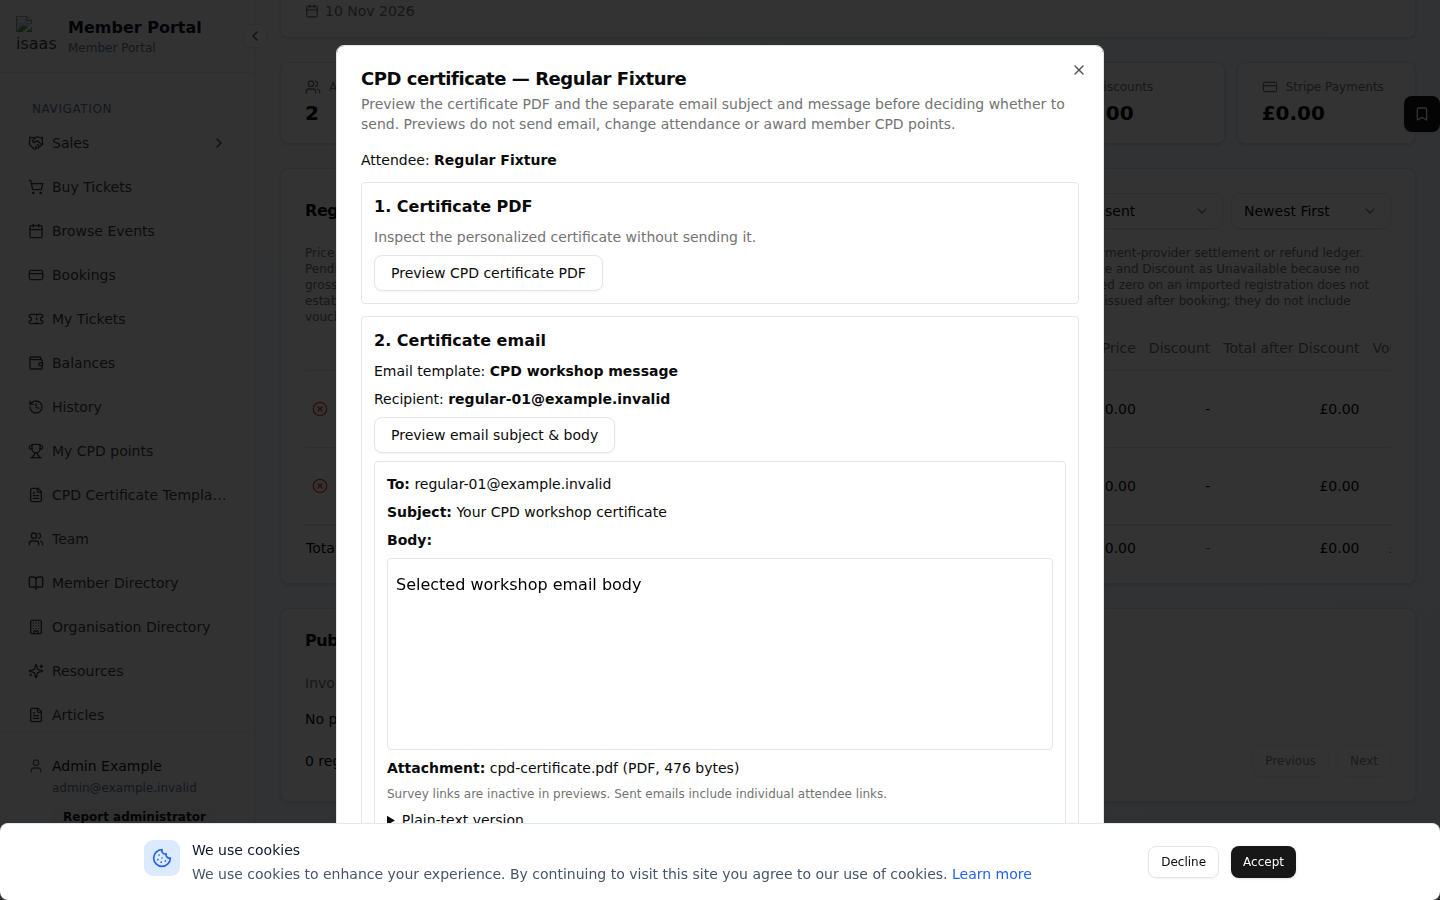
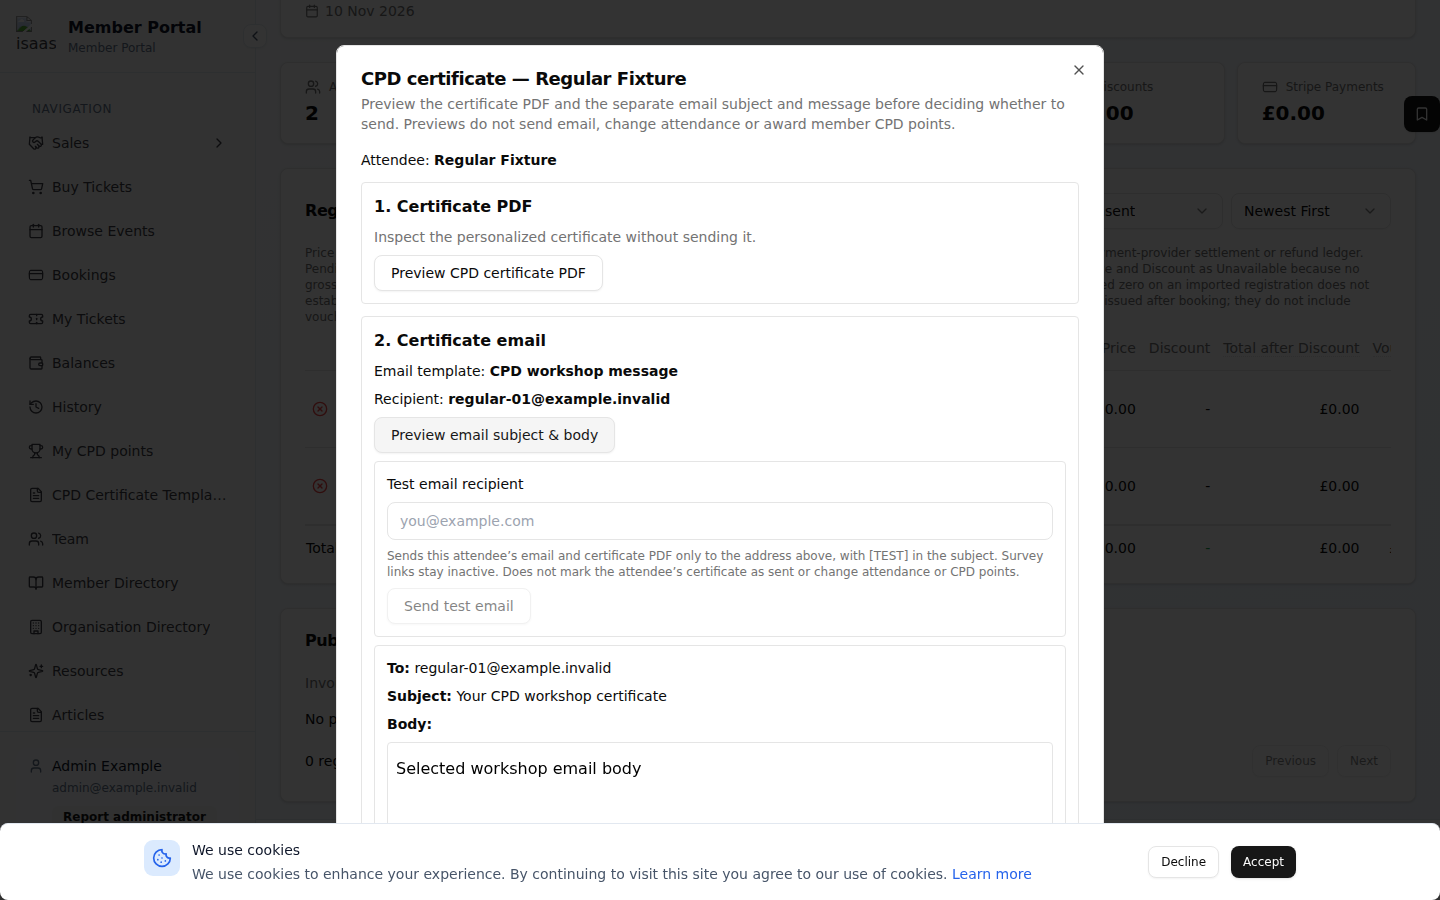
Implement attendee CPD certificate email and PDF preview features
Replit-Commit-Author: Agent

Changed region(s): [[0.25, 0.5289, 0.7188, 0.6844], [0.25, 0.84, 0.625, 0.9333], [0.25, 0.7156, 0.4688, 0.8089]]

diff --git a/client/src/components/events/AttendeeCpdCertificateDialog.jsx b/client/src/components/events/AttendeeCpdCertificateDialog.jsx
@@ -115,6 +115,8 @@ export default function AttendeeCpdCertificateDialog({ attendee, bookingSource, 
   const [emailPreview, setEmailPreview] = useState(null);
   const [confirmed, setConfirmed] = useState(false);
   const [sent, setSent] = useState(false);
+  const [testRecipient, setTestRecipient] = useState("");
+  const [testMessage, setTestMessage] = useState("");
   const requestId = useRef(null);
   const metadataRef = useRef(null);
   const pendingRef = useRef(false);
@@ -131,6 +133,8 @@ export default function AttendeeCpdCertificateDialog({ attendee, bookingSource, 
     metadataRef.current = null;
     setConfirmed(false);
     setSent(false);
+    setTestRecipient("");
+    setTestMessage("");
     setPdfBytes(null);
     setEmailPreview(null);
     requestId.current = null;
@@ -157,6 +161,7 @@ export default function AttendeeCpdCertificateDialog({ attendee, bookingSource, 
     pendingRef.current = true;
     setBusy(kind);
     setError("");
+    setTestMessage("");
     if (kind === "preview") setPdfBytes(null);
     if (kind === "email-preview") setEmailPreview(null);
     if (kind === "send" && !requestId.current) {
@@ -175,6 +180,7 @@ export default function AttendeeCpdCertificateDialog({ attendee, bookingSource, 
         body: JSON.stringify({
           booking_id: bookingId, booking_source: source, action: kind,
           expected_fingerprint: metadataRef.current.fingerprint,
+          ...(kind === "test-send" ? { test_recipient: testRecipient.trim() } : {}),
           ...(kind === "send" ? {
             request_id: requestId.current,
             confirmed: true,
@@ -212,6 +218,10 @@ export default function AttendeeCpdCertificateDialog({ attendee, bookingSource, 
         setPdfBytes(new Uint8Array(await blob.arrayBuffer()));
       } else if (kind === "email-preview") {
         setEmailPreview(await response.json());
+      } else if (kind === "test-send") {
+        const data = await response.json();
+        if (data.success !== true) throw new Error(data.error || "Test email was not accepted.");
+        setTestMessage(`Test email accepted by the provider for ${data.test_recipient}. Attendee delivery is unchanged.`);
       } else {
         const data = await response.json();
         if (data.success !== true) throw new Error(data.error || "The email provider has not confirmed acceptance. Check the delivery record before trying again.");
@@ -318,6 +328,20 @@ export default function AttendeeCpdCertificateDialog({ attendee, bookingSource, 
                     {busy === "email-preview" && <Loader2 className="h-4 w-4 mr-2 animate-spin" />}Preview email subject &amp; body
                   </Button>
                   {!canPreviewEmail && <p role="status" className="text-sm text-amber-700">Email preview unavailable: {emailPreviewReason}</p>}
+                  <div className="space-y-2 rounded border p-3" data-testid="cpd-test-email-section">
+                    <label htmlFor="cpd-test-recipient" className="block text-sm font-medium">Test email recipient</label>
+                    <input id="cpd-test-recipient" type="email" value={testRecipient}
+                      onChange={event => { setTestRecipient(event.target.value); setTestMessage(""); }}
+                      disabled={!!busy} placeholder="you@example.com"
+                      className="w-full rounded-md border bg-background px-3 py-2 text-sm" />
+                    <p className="text-xs text-muted-foreground">Sends this attendee’s email and certificate PDF only to the address above, with [TEST] in the subject. Survey links stay inactive. Does not mark the attendee’s certificate as sent or change attendance or CPD points.</p>
+                    <Button type="button" variant="outline" data-testid="button-test-cpd-email"
+                      disabled={!!busy || !canPreviewEmail || !/^[^\s@,;<>]+@[^\s@,;<>]+\.[^\s@,;<>]+$/.test(testRecipient.trim())}
+                      onClick={() => action("test-send")}>
+                      {busy === "test-send" && <Loader2 className="h-4 w-4 mr-2 animate-spin" />}Send test email
+                    </Button>
+                    {testMessage && <p role="status" className="text-sm">{testMessage}</p>}
+                  </div>
                   {emailPreview && <div className="space-y-2 rounded border p-3" data-testid="cpd-email-preview">
                     <p className="text-sm"><strong>To:</strong> {emailPreview.recipient}</p>
                     <p className="text-sm"><strong>Subject:</strong> {emailPreview.subject}</p>

diff --git a/api/reports/attendee-cpd-certificate.js b/api/reports/attendee-cpd-certificate.js
@@ -1,4 +1,4 @@
-// PDF and email previews are read-only; only the confirmed send action delivers mail.
+// Previews are read-only; test sends never claim attendee delivery or issue survey credentials.
 import { supabase } from '../_lib/database.js';
 import { createHash } from 'node:crypto';
 import { getTenantContext, hasAdminAccess, hasFeatureAccess } from '../_lib/tenantContext.js';
@@ -47,8 +47,8 @@ export async function handleAttendeeCertificate(req, res, deps = {}) {
       return res.status(400).json({ error: 'A valid booking_id and booking_source (standard or complex) are required' });
     }
     const identity = { tenantId: context.tenantId, bookingId, bookingSource };
-    if (req.method === 'POST' && !['preview', 'email-preview', 'send'].includes(input.action)) {
-      return res.status(400).json({ error: 'action must be preview, email-preview or send' });
+    if (req.method === 'POST' && !['preview', 'email-preview', 'test-send', 'send'].includes(input.action)) {
+      return res.status(400).json({ error: 'action must be preview, email-preview, test-send or send' });
     }
     const resolved = await resolve(db, identity);
     const latest = await latestDelivery(db, context.tenantId, bookingSource, bookingId);
@@ -93,6 +93,38 @@ export async function handleAttendeeCertificate(req, res, deps = {}) {
         survey_links_inactive: true,
         omitted_surveys: resolved.survey_list?.omitted || [],
       });
+    }
+    if (input.action === 'test-send') {
+      const recipient = typeof input.test_recipient === 'string' ? input.test_recipient.trim() : '';
+      if (recipient.length > 254 || !/^[^\s@,;<>]+@[^\s@,;<>]+\.[^\s@,;<>]+$/.test(recipient)) {
+        return res.status(400).json({ error: 'Enter one valid test email address.' });
+      }
+      if (!resolved.can_send) return res.status(409).json({ error: resolved.send_reason });
+      const pdf = await render(db, resolved);
+      const current = await resolve(db, identity);
+      if (!current.available || !current.can_send || current.fingerprint !== resolved.fingerprint) {
+        return res.status(409).json({ error: 'Certificate data changed during preparation. Reload and preview again.' });
+      }
+      // Use preview content: no attendee survey bearer links, delivery claims,
+      // CC/BCC, inbox delivery, or attendee preference authority in test mail.
+      let result;
+      try {
+        result = await (deps.send || sendEmail)({
+          tenantId: context.tenantId, to: recipient,
+          subject: `[TEST] ${current.email_message.subject}`,
+          html: current.email_message.html, text: current.email_message.text,
+          enableTracking: false, disableTracking: true,
+          resolveTransactionalPreferences: false,
+          attachments: [{ filename: 'cpd-certificate.pdf', data: pdf, contentType: 'application/pdf' }],
+        });
+      } catch {
+        return res.status(502).json({ error: 'Test email outcome is unknown. Check the test inbox before sending another.' });
+      }
+      if (!result.success) return res.status(502).json({
+        error: 'The provider did not confirm the test email. Check the test inbox before sending another.',
+      });
+      return res.status(200).json({ success: true, test_recipient: recipient,
+        message: 'Test email accepted by the provider. Attendee delivery is unchanged; survey links are inactive.' });
     }
     if (input.confirmed !== true || !UUID.test(input.request_id || '')) {
       return res.status(400).json({ error: 'Explicit confirmation and a UUID request_id are required' });

diff --git a/.agents/memory/transactional-preference-boundary.md b/.agents/memory/transactional-preference-boundary.md
@@ -29,6 +29,17 @@ encoding the literal alias into a tracking redirect makes the visible link
 unusable. This exception is narrow: ordinary campaign links still follow the
 normal tracking path.
 
+Certificate test sends must remain inspection-only with respect to attendee
+authority, even though the email itself is actually delivered.
+
+**Why:** The test recipient may not be the attendee. Issuing the real attendee's
+survey invitations or recording an attendee delivery would grant unintended
+access or interfere with the later real send.
+
+**How to apply:** Keep survey links inactive in test messages and keep test
+delivery independent of attendee delivery claims and confirmations. Provider
+acceptance is not proof of inbox delivery.
+
 Campaign test sends deliberately differ from production at the credential
 boundary. Tenant and group test-send recipients are synthetic and have no
 persisted campaign-recipient identity, so preference aliases render as
